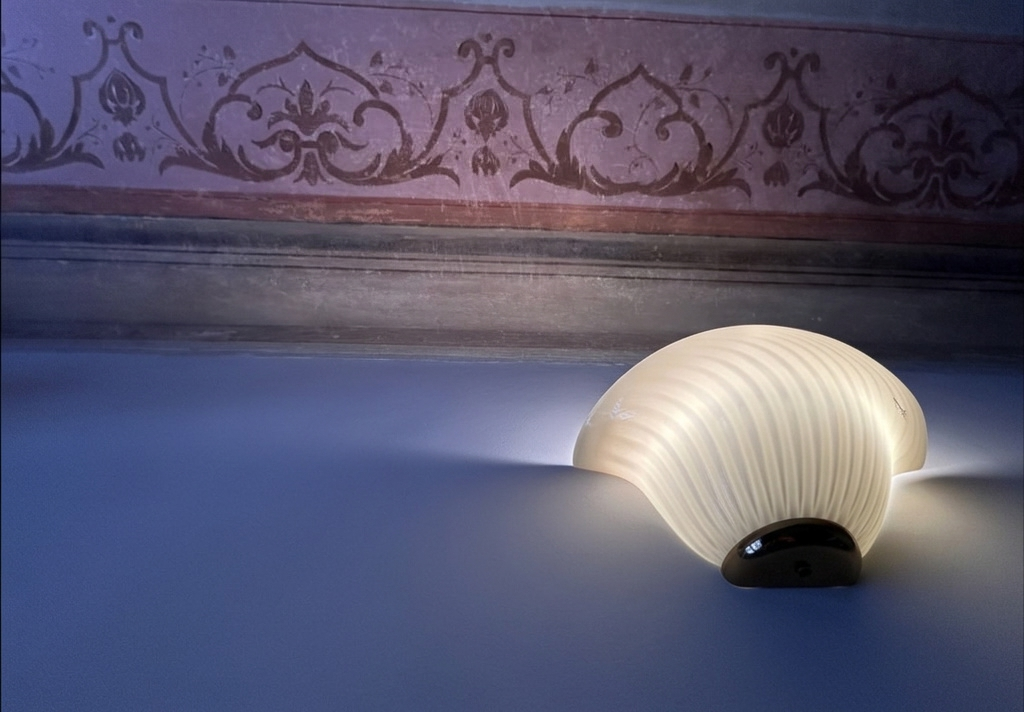
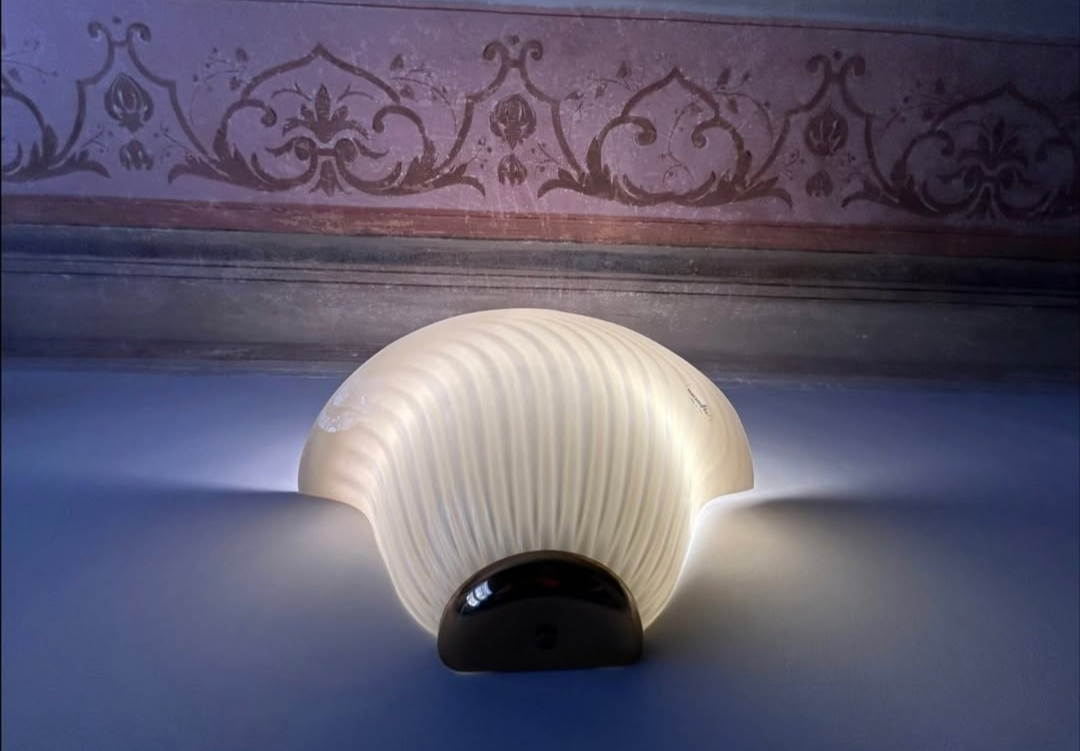
feat: improve detail text section

diff --git a/app/collezione/[slug]/page.tsx b/app/collezione/[slug]/page.tsx
@@ -24,7 +24,7 @@ export async function generateMetadata({ params }: Props): Promise<Metadata> {
   };
 }
 
-/** Detail page for one piece: title, full text, and the folder's gallery. */
+/** Detail page: cover beside the text, then the gallery. The cover is not a gallery slide. */
 export default async function CollectionItemPage({ params }: Props) {
   const { slug } = await params;
   const item = getCollectionItem(slug);
@@ -37,12 +37,20 @@ export default async function CollectionItemPage({ params }: Props) {
       <Link className="piece-back" href="/#collezione">
         Torna alla collezione
       </Link>
-      <h1>{item.title}</h1>
-      <div className="piece-text">
-        {item.description.map((paragraph) => (
-          <p key={paragraph}>{paragraph}</p>
-        ))}
-      </div>
+      <section className="piece-lead" aria-labelledby="piece-title">
+        <div className="piece-copy">
+          <h1 id="piece-title">{item.title}</h1>
+          <div className="piece-text">
+            {item.description.map((paragraph) => (
+              <p key={paragraph}>{paragraph}</p>
+            ))}
+          </div>
+        </div>
+        {/* Same idea as the homepage craft photo: the frame matches the copy height. */}
+        <figure className="piece-figure">
+          <img src={item.card.src} alt={item.title} />
+        </figure>
+      </section>
       <PieceGallery
         title={item.title}
         images={item.images.map((image, index) => ({

diff --git a/app/globals.css b/app/globals.css
@@ -154,7 +154,7 @@ body {
 }
 
 .piece {
-  max-width: 52rem;
+  max-width: 72rem;
   margin-inline: auto;
   padding: 2.5rem 1.75rem 5rem;
 }
@@ -170,9 +170,34 @@ body {
   text-decoration: underline;
 }
 
+.piece-lead {
+  display: grid;
+  grid-template-columns: minmax(0, 1.15fr) minmax(16rem, 0.85fr);
+  gap: 3.5rem;
+  align-items: stretch;
+  margin-top: 1.75rem;
+}
+
 .piece h1 {
-  margin: 1.2rem 0 1.35rem;
+  margin: 0 0 1.35rem;
   font-size: clamp(2.2rem, 5vw, 3.4rem);
+}
+
+.piece-figure {
+  position: relative;
+  margin: 0;
+  min-height: 100%;
+  overflow: hidden;
+}
+
+/* Out of flow, so the row height comes from the text and the cover only fills it. */
+.piece-figure img {
+  position: absolute;
+  inset: 0;
+  width: 100%;
+  height: 100%;
+  object-fit: cover;
+  object-position: center;
 }
 
 .piece-text p + p,
@@ -430,12 +455,14 @@ body {
     padding-inline: 1rem;
   }
 
-  .craft {
+  .craft,
+  .piece-lead {
     grid-template-columns: 1fr;
     gap: 1.75rem;
   }
 
-  .craft-figure {
+  .craft-figure,
+  .piece-figure {
     aspect-ratio: 4 / 5;
     min-height: 0;
   }

diff --git a/docs/collezione.md b/docs/collezione.md
@@ -2,7 +2,7 @@
 
 The homepage section sits under `Artigianato Senza Tempo`. Its title is `Collezione` and the subtitle is centered under it. Each card shows the single image that sits next to `item.json`, the title, and the description clamped to three lines. The whole card links to `/collezione/<slug>`.
 
-The detail page shows the title, every paragraph of the description, and the gallery. `Torna alla collezione` links back to `/#collezione`.
+The detail page places the card image beside the description, in the same two-column arrangement as `Artigianato Senza Tempo`: copy on the left, photograph on the right, cropped so it matches the height of the text. On a narrow screen the text stays above the photograph. That image is not a gallery slide. Under the pair, the gallery lists only the files from `gallery/`. `Torna alla collezione` links back to `/#collezione`.
 
 The gallery frames the first photograph and lists the others as thumbnails under the heading `Fotografie`. Each photograph is a button. Activating one opens a dialog over the page: the large image, `Chiudi`, a count such as `1 di 2`, previous and next controls, and a thumbnail menu labeled `Menu delle fotografie`. The current thumbnail is marked. Arrow keys move through the photographs. Escape, `Chiudi`, and the dark backdrop close the dialog and return focus to the button that opened it. A piece with one photograph still opens the dialog, without the previous, next, and menu controls.
 
@@ -29,7 +29,7 @@ content/collezione/lampada-giove/
 
 Put exactly one image next to `item.json`. That file is the card image. The name can be anything. The examples use `copertina.jpg`. Accepted types are jpg, jpeg, png, and webp.
 
-Put the detail photographs in `gallery/`. Every image file in that folder is used, whatever its name is. Accepted types are jpg, jpeg, png, webp, gif, and avif, in any letter case. Other files in the folder are ignored. The photographs are shown in filename order so the sequence stays stable. The card image is not part of the gallery unless the same file is also copied there. A piece needs at least one image in `gallery/`.
+Put the detail photographs in `gallery/`. Every image file in that folder is used, whatever its name is. Accepted types are jpg, jpeg, png, webp, gif, and avif, in any letter case. Other files in the folder are ignored. The photographs are shown in filename order so the sequence stays stable. The card image is shown beside the description and is not added to the gallery. Copying that file into `gallery/` is the only way it also appears there. A piece needs at least one image in `gallery/`.
 
 Zero card images, more than one card image, a missing gallery image, an image without `item.json`, a repeated `order`, or a missing field stops the build with an error. The Worker does not read these files at request time: Vite includes them in the bundle.
 
